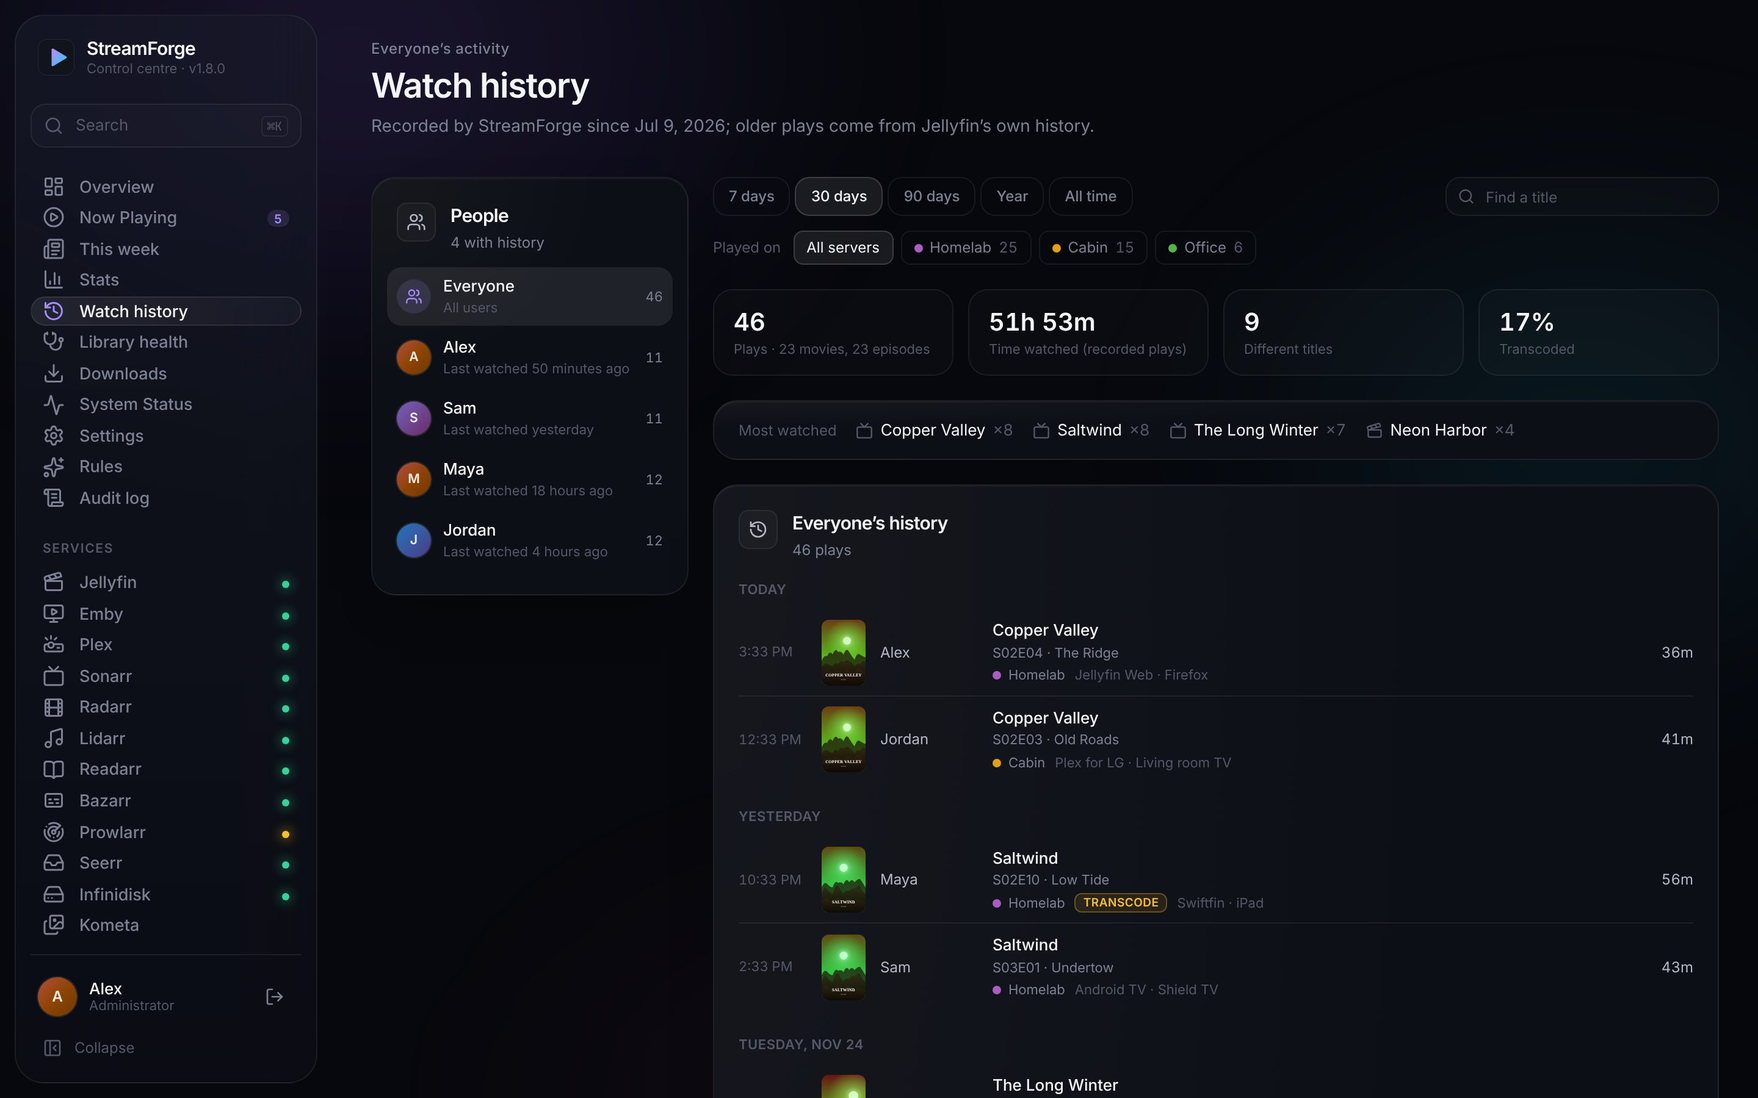
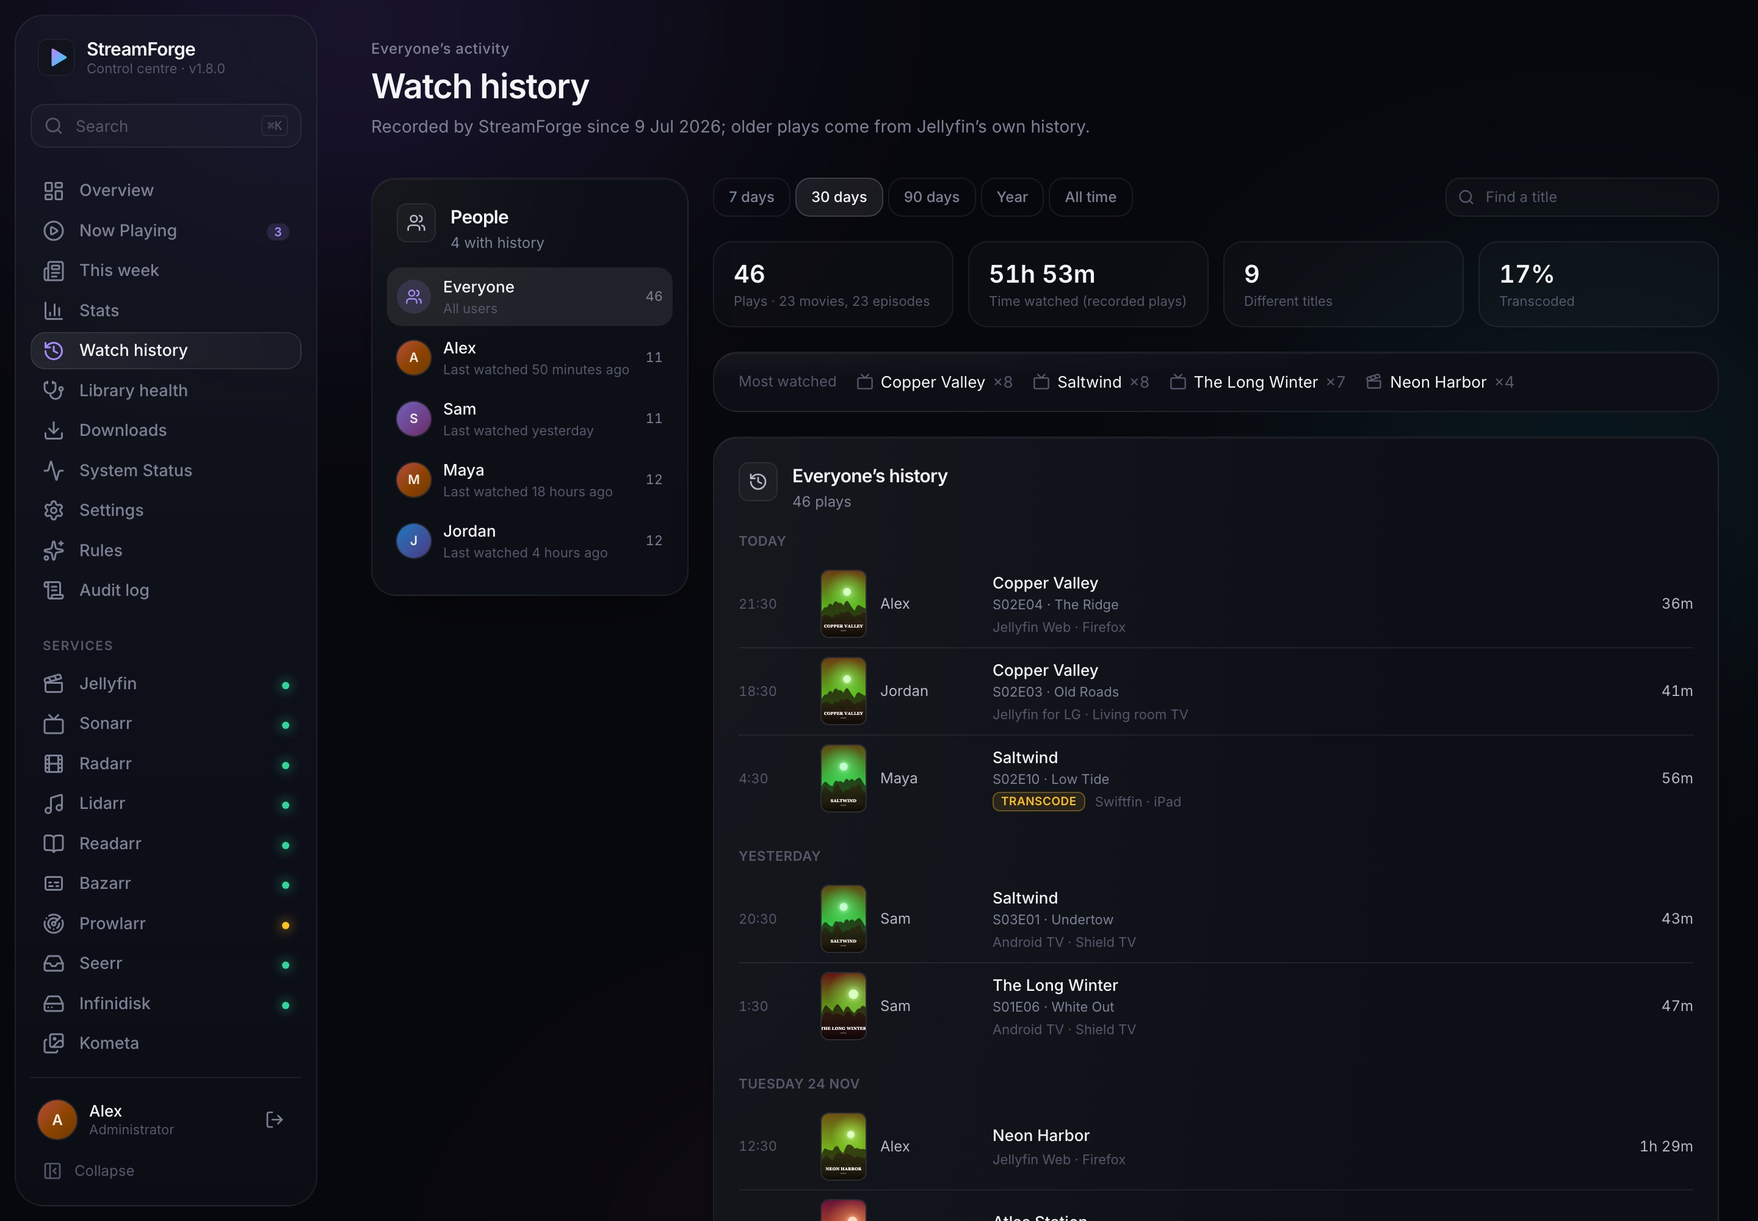
docs: new screenshots and website for one server and two-step setup
- Demo: one media server by default (Plex/Emby-only modes too), Kometa
  libraries on that server, and DEMO_APPS=1 for setup step 2.
- screenshots.sh captures each demo mode (all, plex, emby, setup, apps).
- Retook every screenshot; new setup-apps.jpg.
- First-run step 1 says "Step 1 of 2" and what comes next.
- Website: install steps are now "choose your media server" and "set up
  your apps", with both setup screens; image sizes match the files.
- README: step 3 "Set up your apps" with its screenshot.

diff --git a/scripts/demo-server.ts b/scripts/demo-server.ts
@@ -43,8 +43,13 @@ import type {
 } from '../src/lib/types.js';
 
 const PORT = Number(process.env.DEMO_PORT ?? 4010);
-// DEMO_SINGLE=1 shows a household with one Jellyfin server and no Emby or Plex.
-const SINGLE = process.env.DEMO_SINGLE === '1';
+// Each install watches one media server, so the demo shows one: Jellyfin by
+// default, or Plex/Emby with DEMO_MAIN. (Leftover multi-server data below is
+// filtered out by SINGLE.)
+const SINGLE = true;
+// DEMO_APPS=1 shows setup step 2 ("Set up your apps") partway through.
+const APPS_SETUP = process.env.DEMO_APPS === '1';
+const APPS_CONNECTED = new Set<ServiceId>(['jellyfin', 'sonarr', 'seerr']);
 const START = Date.now();
 const MIN = 60_000;
 const HOUR = 60 * MIN;
@@ -902,7 +907,7 @@ function settings(): ServiceSettingsView[] {
     id,
     name: id === 'infinidisk' ? 'Infinidisk' : id[0]!.toUpperCase() + id.slice(1),
     source: id === 'infinidisk' ? 'environment' : 'database',
-    configured: true,
+    configured: !APPS_SETUP || APPS_CONNECTED.has(id),
     enabled: !disabledServices.has(id),
     canDisable: id !== 'jellyfin',
     envAvailable: id === 'infinidisk',
@@ -978,7 +983,8 @@ if (MAIN_KIND) {
       },
     };
   };
-  app.get('/api/jellyfin/now-playing', json(() => nowPlaying().filter((s) => s.serverType !== 'emby').map(plexStream)));
+  // One server: the streams that were on the demo's second server are left out.
+  app.get('/api/jellyfin/now-playing', json(() => nowPlaying().filter((s) => !s.serverType).map(plexStream)));
   const home = (req: express.Request) => !req.query.instance || req.query.instance === PLEX_HOME.id;
   app.get('/api/jellyfin/overview', (req, res) => {
     if (!home(req)) return res.json(extraOverview(PLEX));
@@ -1003,14 +1009,14 @@ if (MAIN_KIND) {
     const jf = h.services.find((s) => s.id === 'jellyfin')!;
     const row = (id: string, name: string, ms: number): ServiceHealth => ({ ...jf, id, instance: id, serverType: PLEX_HOME.type, name: `${MAIN_NAME} · ${name}`, version: MAIN_VERSION, latencyMs: ms, meta: { server: name } });
     const rest = h.services.filter((s) => s.id !== 'jellyfin' && !s.serverType);
-    return { ...h, services: [row(PLEX_HOME.id, 'Home', 34), row(SECOND.id, 'Cabin', 61), ...rest] };
+    return { ...h, services: [row(PLEX_HOME.id, 'Home', 34), ...rest] };
   }));
   const port = MAIN_KIND === 'emby' ? 8096 : 32400;
   app.get('/api/settings/media-servers', json(() => ({
     servers: [
       { id: PLEX_HOME.id, type: PLEX_HOME.type, name: 'Home', url: `http://192.168.1.10:${port}`, publicUrl: '', enabled: true, apiKeySet: true, apiKeyHint: '••••K2pa', createdAt: '2026-08-01T10:00:00.000Z', main: true },
-      { id: SECOND.id, type: SECOND.type, name: 'Cabin', url: `http://192.168.1.40:${port}`, publicUrl: '', enabled: true, apiKeySet: true, apiKeyHint: '••••Zq7x', createdAt: '2026-10-14T18:30:00.000Z' },
     ],
+    ignored: [],
   })));
 }
 
@@ -1028,7 +1034,7 @@ app.get('/api/config', json(() => ({
     { id: 'radarr-4k', kind: 'radarr', name: '4K', primary: false },
   ].filter((i) => !disabledServices.has(i.kind as ServiceId)),
   jellyfinServers: PLEX_ONLY
-    ? [{ ...PLEX_HOME, primary: true }, { ...SECOND, primary: false }]
+    ? [{ ...PLEX_HOME, primary: true }]
     : [
         { id: 'jellyfin', type: 'jellyfin', name: 'Homelab', primary: true },
         ...(SINGLE ? [] : [{ ...EMBY, primary: false }, { ...PLEX, primary: false }]),
@@ -1128,18 +1134,18 @@ app.get('/api/kometa/status', json(() => ({
     { id: 95, at: iso(3 * HOUR), event: 'delete', message: 'Collection “Halloween 2025” deleted', library: 'Movies' },
   ],
 })));
-// Collections made in StreamForge and on the servers, for the Kometa page.
+// Collections made in StreamForge and on the server, for the Kometa page.
 const demoLibraries = [
   { server: 'jellyfin', serverType: 'jellyfin', serverName: 'Homelab', id: 'lib-movies', name: 'Movies', kind: 'movie', kometaFile: 'config/streamforge/jellyfin-homelab-movies.yml' },
   { server: 'jellyfin', serverType: 'jellyfin', serverName: 'Homelab', id: 'lib-shows', name: 'TV Shows', kind: 'show', kometaFile: 'config/streamforge/jellyfin-homelab-tv-shows.yml' },
-  { server: PLEX.id, serverType: 'plex', serverName: 'Cabin', id: '1', name: 'Movies', kind: 'movie', kometaFile: 'config/streamforge/plex-cabin-movies.yml' },
-  { server: EMBY.id, serverType: 'emby', serverName: 'Office', id: '101', name: 'Movies', kind: 'movie', kometaFile: 'config/streamforge/emby-office-movies.yml' },
+  { server: 'jellyfin', serverType: 'jellyfin', serverName: 'Homelab', id: 'lib-kids', name: 'Kids Movies', kind: 'movie', kometaFile: 'config/streamforge/jellyfin-homelab-kids-movies.yml' },
+  { server: 'jellyfin', serverType: 'jellyfin', serverName: 'Homelab', id: 'lib-4k', name: '4K Movies', kind: 'movie', kometaFile: 'config/streamforge/jellyfin-homelab-4k-movies.yml' },
 ];
 const colArt = (t: string, server?: string) => ({ itemId: slug(t), type: 'Primary', tag: 'demo', ...(server ? { server } : {}) });
 const demoCollections = [
-  { id: 'sf-oscars', name: 'Oscar Winners', managed: true, library: demoLibraries[2], source: { type: 'tmdb_list', value: '28' }, schedule: 'always', count: 8, poster: colArt('Lanterns Over Kessa', PLEX.id), builtAt: Date.now() - 3 * HOUR, createdBy: 'Alex', status: 'built' },
+  { id: 'sf-oscars', name: 'Oscar Winners', managed: true, library: demoLibraries[2], source: { type: 'tmdb_list', value: '28' }, schedule: 'always', count: 8, poster: colArt('Lanterns Over Kessa'), builtAt: Date.now() - 3 * HOUR, createdBy: 'Alex', status: 'built' },
   { id: 'sf-trending', name: 'Trending This Week', managed: true, library: demoLibraries[0], source: { type: 'tmdb_trending_weekly', limit: 30 }, schedule: 'always', count: 22, poster: colArt('Neon Harbor'), builtAt: Date.now() - 3 * HOUR, createdBy: 'Alex', status: 'built' },
-  { id: 'sf-staff', name: 'Staff Picks', managed: true, library: demoLibraries[2], source: { type: 'tmdb_list', value: '8273' }, schedule: 'always', poster: colArt('Paper Kingdoms', PLEX.id), status: 'error', error: 'TMDb list 8273 not found', createdBy: 'Sam', updatedAt: iso(9 * DAY) },
+  { id: 'sf-staff', name: 'Staff Picks', managed: true, library: demoLibraries[2], source: { type: 'tmdb_list', value: '8273' }, schedule: 'always', poster: colArt('Paper Kingdoms'), status: 'error', error: 'TMDb list 8273 not found', createdBy: 'Sam', updatedAt: iso(9 * DAY) },
   { id: 'sf-xmas', name: 'Christmas Movies', managed: true, library: demoLibraries[2], source: { type: 'imdb_list', value: 'https://www.imdb.com/list/ls000096828/' }, schedule: { from: '12/01', to: '12/31' }, status: 'waiting', waitingForRun: true, createdBy: 'Alex', updatedAt: iso(20 * MIN) },
   { id: 'sf-family', name: 'Family Night', managed: true, library: demoLibraries[3], source: { type: 'manual', ids: [1, 2, 3, 4, 5, 6, 7, 8, 9, 10, 11, 12, 13, 14] }, schedule: 'always', status: 'waiting', waitingForRun: true, createdBy: 'Alex', updatedAt: iso(15 * MIN) },
   { id: 'srv~jellyfin~~bx1', name: 'New Episodes', managed: false, library: { ...demoLibraries[1], id: '', name: 'Collections' }, count: 41, poster: colArt('Atlas Station'), status: 'built' },
@@ -1158,7 +1164,7 @@ app.get('/api/kometa/collections/:id', (req, res) => {
     tmdbId: 1000 + i,
     title: t,
     year: find(t).year,
-    poster: colArt(t, PLEX.id),
+    poster: colArt(t),
     inLibrary: !missing.has(t),
     inCollection: !missing.has(t),
     new: i < 3,
@@ -1211,26 +1217,30 @@ app.get('/api/settings/kometa', json(() => ({
   collections: { configDir: '/kometa', runTimes: ['03:00'], tmdbKeySet: false, tmdbKeyFromKometa: true, folder: { ok: true, hasConfig: true } },
 })));
 
-// Extra media servers: an Emby and a Plex server next to the main Jellyfin one.
-const demoMediaServers = [
-  { id: 'emby-office', type: 'emby', name: 'Office', url: 'http://192.168.1.31:8096', publicUrl: '', enabled: true, apiKeySet: true, apiKeyHint: '••••a91e', createdAt: '2026-09-02T10:00:00.000Z' },
-  { id: 'plex-cabin', type: 'plex', name: 'Cabin', url: 'http://192.168.1.40:32400', publicUrl: '', enabled: true, apiKeySet: true, apiKeyHint: '••••Zq7x', createdAt: '2026-10-14T18:30:00.000Z' },
-];
-app.get('/api/settings/media-servers', json(() => ({ servers: demoMediaServers })));
+// With Jellyfin, the media server lives in the service settings: no Plex/Emby server stored.
+app.get('/api/settings/media-servers', json(() => ({ servers: [], ignored: [] })));
 app.post('/api/settings/media-servers/test', (req, res) =>
   res.json({ ok: true, version: (req.body as { type?: string })?.type === 'plex' ? '1.41.2' : '4.8.10', latencyMs: 42, issues: [] }),
 );
-app.post('/api/settings/media-servers/discover', json(() => ({
-  servers: [
-    { id: 'a1', type: 'jellyfin', name: 'Homelab', url: 'http://192.168.1.10:8096', version: '10.11.2', reachable: true, added: true },
-    { id: 'b2', type: 'emby', name: 'Office', url: 'http://192.168.1.31:8096', version: '4.8.10', reachable: true, added: true },
-    { id: 'c3', type: 'plex', name: 'Cabin', url: 'http://192.168.1.40:32400', version: '1.41.2', reachable: true, added: true },
-    { id: 'd4', type: 'plex', name: 'Garage NAS', url: 'http://192.168.1.52:32400', version: '1.41.2', reachable: true, added: false },
-  ],
-})));
-app.post('/api/settings/media-servers', (_req, res) => res.status(403).json({ error: 'demo', message: 'Adding servers is switched off in the demo.' }));
 app.put('/api/settings/media-servers/:id', (_req, res) => res.status(403).json({ error: 'demo', message: 'Changes are switched off in the demo.' }));
-app.delete('/api/settings/media-servers/:id', (_req, res) => res.status(403).json({ error: 'demo', message: 'Changes are switched off in the demo.' }));
+
+/* Setup step 2: your apps. DEMO_APPS=1 shows it partway through. */
+app.get('/api/settings/setup', json(() => ({ appsDone: !APPS_SETUP })));
+app.put('/api/settings/setup', json(() => ({ appsDone: true, disabled: [] })));
+app.post('/api/settings/apps/discover', async (_req, res) => {
+  await new Promise((r) => setTimeout(r, 600));
+  res.json({
+    found: [
+      { service: 'sonarr', name: 'Sonarr', url: 'http://sonarr:8989', via: 'docker' },
+      { service: 'radarr', name: 'Radarr', url: 'http://radarr:7878', via: 'docker' },
+      { service: 'seerr', name: 'Jellyseerr', url: 'http://jellyseerr:5055', via: 'docker' },
+      { service: 'prowlarr', name: 'Prowlarr', url: 'http://prowlarr:9696', via: 'docker' },
+      { service: 'bazarr', name: 'Bazarr', url: 'https://bazarr.example.com', via: 'domain' },
+    ].map((f) => ({ ...f, configured: !APPS_SETUP || APPS_CONNECTED.has(f.service as ServiceId) })),
+    importable: APPS_SETUP ? [{ service: 'radarr', from: 'seerr', url: 'http://radarr:7878' }] : [],
+  });
+});
+app.post('/api/settings/apps/import', json(() => ({ results: [{ service: 'radarr', from: 'seerr', url: 'http://radarr:7878', ok: true }] })));
 app.get('/api/settings/instances', json(() => ({
   instances: [{ id: 'radarr-4k', kind: 'radarr', name: '4K', url: 'https://radarr-4k.example.com', enabled: true, apiKeySet: true, apiKeyHint: '••••77ab', createdAt: iso(20 * DAY) }],
 })));

diff --git a/site/index.html b/site/index.html
@@ -135,6 +135,13 @@
     @media (min-width: 900px) { .show { grid-template-columns: 5fr 7fr; gap: 56px; } .show.flip { grid-template-columns: 7fr 5fr; } .show.flip .txt { order: 2; } }
     .show .shot { border-radius: 16px; border: 1px solid var(--line-strong); overflow: hidden; box-shadow: 0 40px 80px -40px rgb(0 0 0 / .9); background: var(--surface); }
     .show .shot img { width: 100%; height: auto; }
+    .setup-shots { display: grid; gap: 16px; margin-top: 28px; align-items: start; }
+    @media (min-width: 820px) { .setup-shots { grid-template-columns: 1fr 1fr; gap: 24px; } }
+    .setup-shots figure { margin: 0; }
+    .setup-shots a { display: block; border-radius: 14px; border: 1px solid var(--line-strong); overflow: hidden; background: var(--surface); box-shadow: 0 30px 60px -36px rgb(0 0 0 / .9); }
+    .setup-shots img { display: block; width: 100%; height: auto; }
+    .setup-shots .crop { aspect-ratio: 16 / 10; object-fit: cover; object-position: top; }
+    .setup-shots figcaption { margin-top: 10px; font-size: 13px; color: var(--ink-3); }
     .show h3 { font-size: clamp(22px, 3vw, 30px); letter-spacing: -.02em; margin: 10px 0 0; line-height: 1.2; }
     .show p { color: var(--ink-3); margin: 14px 0 0; }
     .ticks { list-style: none; padding: 0; margin: 18px 0 0; display: grid; gap: 10px; }
@@ -510,7 +517,7 @@
               <li><svg class="i"><use href="#i-check"/></svg>Click a viewer in Stats to open their history</li>
             </ul>
           </div>
-          <div class="shot"><img src="screenshots/history.jpg" width="2880" height="1800" alt="Watch history: a list of people on the left, and each play with its poster, device and time watched" loading="lazy"></div>
+          <div class="shot"><img src="screenshots/history.jpg" width="2880" height="2000" alt="Watch history: a list of people on the left, and each play with its poster, device and time watched" loading="lazy"></div>
         </div>
 
         <div class="show flip reveal">
@@ -524,7 +531,7 @@
               <li><svg class="i"><use href="#i-check"/></svg>Request it, add it to Sonarr or Radarr, or search for a better copy</li>
             </ul>
           </div>
-          <div class="shot"><img src="screenshots/title.jpg" width="2880" height="1800" alt="A movie page with its details, files, cast and who has watched it" loading="lazy"></div>
+          <div class="shot"><img src="screenshots/title.jpg" width="2880" height="2600" alt="A movie page with its details, files, cast and who has watched it" loading="lazy"></div>
         </div>
 
         <div class="features">
@@ -950,13 +957,24 @@
             <p>Save the file above and run <code>docker compose up -d</code>, or use the one-line <code>docker run</code> from the README.</p>
           </div>
           <div class="card step reveal">
-            <h3>Connect your media server</h3>
-            <p>Open <code>http://your-server:4000</code> and pick Plex, Jellyfin or Emby. Plex: click Sign in with Plex and choose your server. Jellyfin or Emby: enter its address and sign in as an administrator.</p>
+            <h3>Choose your media server</h3>
+            <p>Open <code>http://your-server:4000</code> and pick Plex, Jellyfin or Emby. Plex: click Sign in with Plex and choose your server. Jellyfin or Emby: enter its address, or find it on your network, and sign in as an administrator.</p>
           </div>
           <div class="card step reveal">
-            <h3>Add your services</h3>
-            <p>In Settings, add the address and API key for Sonarr, Radarr, Lidarr, Readarr, Bazarr, Prowlarr, Seerr, Infinidisk and your download clients, plus any extra Jellyfin, Emby or Plex servers. Skip any you don't use.</p>
+            <h3>Set up your apps</h3>
+            <p>StreamForge looks for Sonarr, Radarr, Seerr, Prowlarr and the rest on your Docker network, your machines and your domain, and fills in their addresses. Paste each API key to connect. Already use Seerr? It shares your Sonarr and Radarr in one click. Skip any you don't use.</p>
           </div>
+        </div>
+
+        <div class="setup-shots reveal">
+          <figure>
+            <a href="screenshots/setup.jpg"><img src="screenshots/setup.jpg" width="2880" height="1800" loading="lazy" alt="First run, step 1: choose Plex, Jellyfin or Emby"></a>
+            <figcaption>Step 1: choose your media server.</figcaption>
+          </figure>
+          <figure>
+            <a href="screenshots/setup-apps.jpg"><img class="crop" src="screenshots/setup-apps.jpg" width="2880" height="3000" loading="lazy" alt="First run, step 2: apps found on the network with their addresses filled in, and an offer to connect Radarr using Seerr's details"></a>
+            <figcaption>Step 2: your apps, found for you. Paste each key to connect.</figcaption>
+          </figure>
         </div>
         <p class="note">The <a href="guides/install.html">install guide</a> covers Docker networking, reverse proxies, Tailscale, backups and troubleshooting. Want to look around first? Clone the repo and run <code>npm run demo</code>.</p>
       </div>
@@ -991,7 +1009,7 @@
           <a class="card reveal guide" href="guides/watch-history-and-stats.html" style="--c:var(--cyan)">
             <div class="ico"><svg class="i"><use href="#i-chart"/></svg></div>
             <h3>Watch history and stats</h3>
-            <p>How plays are recorded, the Watch history and Stats pages, filtering by server, and who can see what.</p>
+            <p>How plays are recorded, the Watch history and Stats pages, and who can see what.</p>
           </a>
           <a class="card reveal guide" href="guides/notifications.html" style="--c:var(--seerr)">
             <div class="ico"><svg class="i"><use href="#i-bell"/></svg></div>

diff --git a/src/pages/Login.tsx b/src/pages/Login.tsx
@@ -265,6 +265,7 @@ function ChooseServer({ onPick }: { onPick: (t: SetupType) => void }) {
   const card = 'flex w-full items-center gap-3 rounded-2xl border border-line bg-white/[0.02] p-4 text-left transition hover:border-line-strong hover:bg-white/[0.05]';
   return (
     <div className="glass rounded-3xl p-6 shadow-[0_40px_80px_-30px_rgb(0_0_0/0.8)] sm:p-7">
+      <p className="mb-1 text-[11px] font-semibold tracking-[0.1em] text-ink-4 uppercase">Step 1 of 2 · Media server</p>
       <p className="mb-4 text-sm leading-relaxed text-ink-2">Which media server do you use? People will sign in to StreamForge with their account on it.</p>
       <div className="space-y-2.5">
         <button type="button" className={card} onClick={() => onPick('plex')}>
@@ -292,7 +293,9 @@ function ChooseServer({ onPick }: { onPick: (t: SetupType) => void }) {
           <ArrowRight className="size-4 text-ink-4" />
         </button>
       </div>
-      <p className="mt-4 text-center text-[11px] leading-relaxed text-ink-4">Run more than one? Pick one for sign-in and add the others from Settings.</p>
+      <p className="mt-4 text-center text-[11px] leading-relaxed text-ink-4">
+        StreamForge watches the one you choose. Next, it finds Sonarr, Radarr, Seerr and your other apps.
+      </p>
     </div>
   );
 }

diff --git a/README.md b/README.md
@@ -319,7 +319,7 @@ docker run -d --name streamforge \
 The `/data` volume holds the settings database. Keep it, or you'll need to set
 everything up again after an upgrade.
 
-### 2. Connect your media server
+### 2. Choose your media server
 
 Open **http://your-server:4000**. On first launch StreamForge asks which media
 server you use. People sign in to StreamForge with their account on it.
@@ -338,11 +338,24 @@ server you use. People sign in to StreamForge with their account on it.
   API key on the server for background features, and everyone else signs in
   with their Emby account.
 
-You can add more servers of any kind from Settings afterwards.
+Each install watches the one media server you choose. Running two? Run a
+StreamForge for each.
 
 <a href="docs/screenshots/setup.jpg"><img src="docs/screenshots/setup.jpg" width="32%" alt="First-run setup: pick Plex, Jellyfin or Emby"></a>
 <a href="docs/screenshots/setup-plex.jpg"><img src="docs/screenshots/setup-plex.jpg" width="32%" alt="After signing in with Plex: pick which of your Plex servers to use"></a>
 <a href="docs/screenshots/setup-emby.jpg"><img src="docs/screenshots/setup-emby.jpg" width="32%" alt="Emby setup: the server address, servers found on the network, and an administrator sign-in"></a>
+
+### 3. Set up your apps
+
+After you sign in, StreamForge opens **Set up your apps** and looks for Sonarr,
+Radarr, Seerr, Prowlarr, Bazarr, Lidarr and Readarr: by Docker service name,
+on this machine and the media server's machine at their usual ports, and at
+subdomains next to your media server's. Found apps have their address filled
+in; paste each API key and click **Test and connect**. Once Seerr or Prowlarr
+is connected, StreamForge offers to connect the Sonarr and Radarr they already
+know. Apps you skip are switched off; turn them on any time in Settings.
+
+<a href="docs/screenshots/setup-apps.jpg"><img src="docs/screenshots/setup-apps.jpg" width="60%" alt="Set up your apps: Sonarr and Seerr connected, Radarr, Prowlarr and Bazarr found with their addresses filled in, and an offer to connect Radarr using Seerr's details"></a>
 
 ### Plex-only and Emby-only households
 
@@ -375,10 +388,12 @@ notes below are mostly about **Plex**.
 - **Needs:** the StreamForge server must be able to reach `plex.tv` (for
   sign-in) and your Plex server.
 
-### 3. Connect your other services
+### 4. Change them later in Settings
 
-Go to **Settings** in the sidebar. For each service you use, enter its address
-and API key, click **Test connection**, then **Save**. Changes apply
+Go to **Settings** in the sidebar. Services are grouped: media server, library
+managers, indexers and downloads, requests, metadata and subtitles, and
+storage. For each service you use, enter its address and API key, click
+**Test connection**, then **Save**. Changes apply
 immediately; no restart is needed. Skip any service you don't run.
 
 | Service | Where to find the API key |
